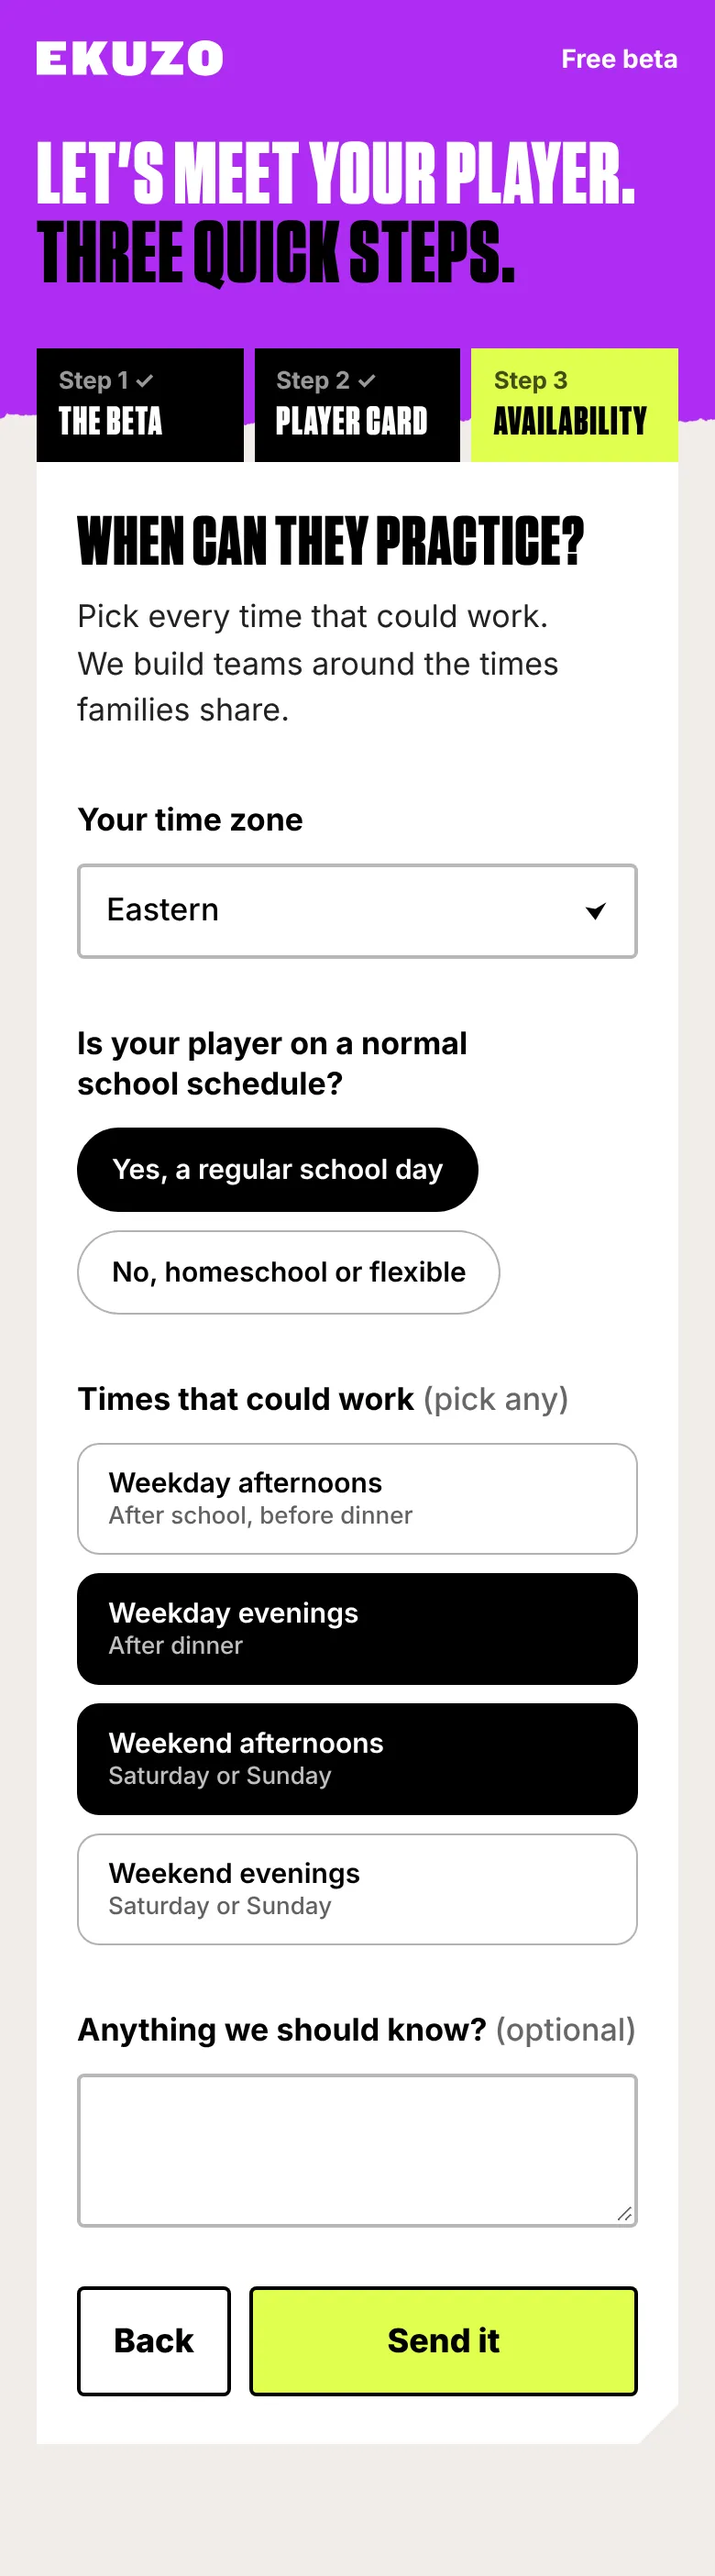
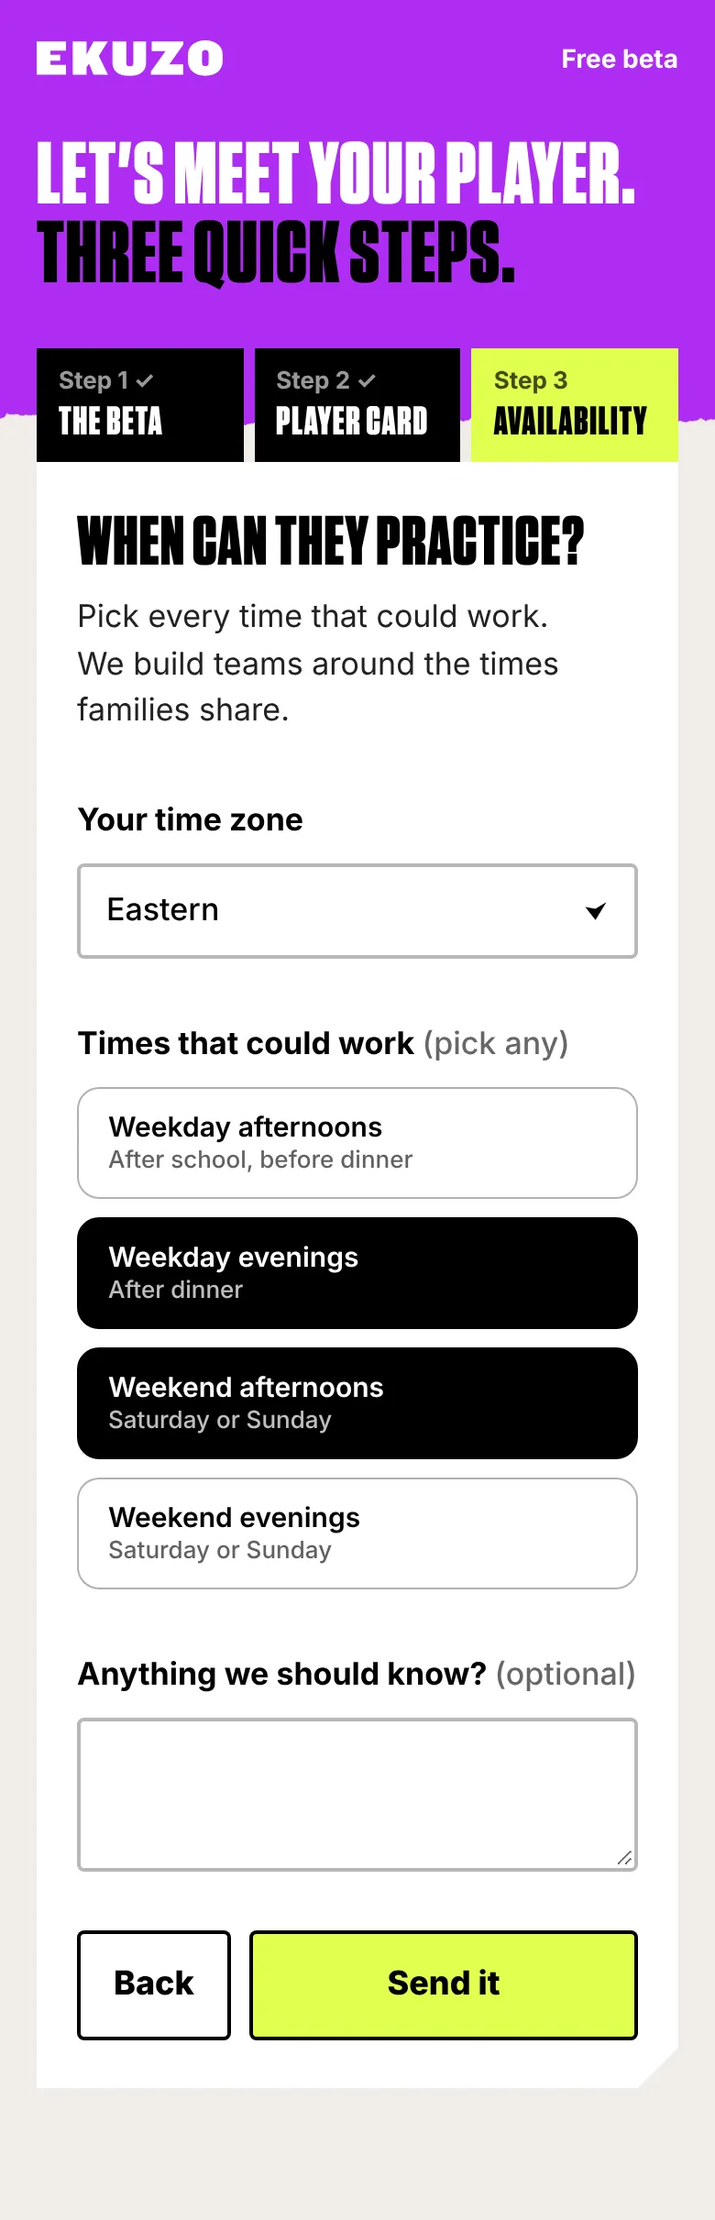
BETA wizard: age dropdown (9 to 18), school schedule question removed
Claude-Session: https://claude.ai/code/session_01543UG8e9JwTD5Qg5aKwmc9

Changed region(s): [[0.0, 0.0, 1.0, 0.8051], [0.0923, 0.8361, 0.8923, 0.929], [0.8308, 0.3406, 0.8923, 0.4335]]

diff --git a/public/roadshow/beta/wizard.html b/public/roadshow/beta/wizard.html
@@ -95,7 +95,7 @@ main{position:relative;z-index:2;max-width:680px;margin:-56px auto 0;padding:0 2
 .q.bad .vows label:not(:has(input:checked)) .box{border-color:var(--bad)}
 .err{display:none;font:600 14px/1.35 var(--body);color:var(--bad);margin-top:8px}
 .q.bad .err{display:block}
-.q.bad input[type=text],.q.bad input[type=number],.q.bad input[type=email]{border-color:var(--bad)}
+.q.bad input[type=text],.q.bad select,.q.bad input[type=email]{border-color:var(--bad)}
 .q.bad .opts label{border-color:var(--bad)}
 
 .acts{display:flex;gap:10px;margin-top:28px}
@@ -172,7 +172,7 @@ main{position:relative;z-index:2;max-width:680px;margin:-56px auto 0;padding:0 2
 <div class="q" id="q-email" hidden><label for="email">Your email <i>(the one you joined with)</i></label><input id="email" name="email" type="email" autocomplete="email" inputmode="email" autocapitalize="off" spellcheck="false"><p class="err">Enter the email you joined with.</p></div>
 <div class="row">
 <div class="q"><label for="pname">Player's first name</label><input id="pname" name="pname" type="text" autocomplete="off" autocapitalize="words" required><p class="err">Add your player's first name.</p></div>
-<div class="q"><label for="age">Age</label><input id="age" name="age" type="number" inputmode="numeric" min="9" max="19" required><p class="err">Ages 9 and up.</p></div>
+<div class="q"><label for="age">Age</label><select id="age" name="age" required><option value="" selected disabled hidden></option><option>9</option><option>10</option><option>11</option><option>12</option><option>13</option><option>14</option><option>15</option><option>16</option><option>17</option><option>18</option></select><p class="err">Pick their age.</p></div>
 </div>
 <fieldset class="q"><legend>Where do they game? <i>(pick any)</i></legend>
 <div class="opts">
@@ -211,11 +211,6 @@ main{position:relative;z-index:2;max-width:680px;margin:-56px auto 0;padding:0 2
 <select id="tz" name="tz">
 <option value="Eastern">Eastern</option><option value="Central">Central</option><option value="Mountain">Mountain</option><option value="Pacific">Pacific</option><option value="Alaska">Alaska</option><option value="Hawaii">Hawaii</option><option value="Other">Outside the US</option>
 </select></div>
-<fieldset class="q" id="q-school"><legend>Is your player on a normal school schedule?</legend>
-<div class="opts">
-<label><input type="radio" name="school" value="Yes" required>Yes, a regular school day</label>
-<label><input type="radio" name="school" value="Flexible">No, homeschool or flexible</label>
-</div><p class="err">Pick one so we know which hours are open.</p></fieldset>
 <fieldset class="q" id="q-times"><legend>Times that could work <i>(pick any)</i></legend>
 <div class="opts col">
 <label><span><input type="checkbox" name="times" value="Weekday afternoons">Weekday afternoons<small>After school, before dinner</small></span></label>
@@ -263,10 +258,9 @@ main{position:relative;z-index:2;max-width:680px;margin:-56px auto 0;padding:0 2
     if(i===1){
       var qe=document.getElementById("q-email"); if(!qe.hidden) mark(qe,!/^[^\s@]+@[^\s@]+\.[^\s@]{2,}$/.test(f.email.value.trim()));
       mark(f.pname.closest(".q"),!f.pname.value.trim());
-      var a=parseInt(f.age.value,10); mark(f.age.closest(".q"),!(a>=9&&a<=19));
+      mark(f.age.closest(".q"),!f.age.value);
     }
     if(i===2){
-      mark(document.getElementById("q-school"),!f.school.value);
       mark(document.getElementById("q-times"),!f.querySelector("[name=times]:checked"));
     }
     if(first){ var t=first.querySelector("input,select"); if(t) t.focus(); first.scrollIntoView({block:"center"}); }

diff --git a/public/roadshow/beta-lab.html b/public/roadshow/beta-lab.html
@@ -154,7 +154,7 @@ footer{color:var(--muted);font-size:14px;border-top:1px solid var(--line);paddin
     <div class="screens wiz">
       <figure><img src="beta/screens/wizard-1-beta.webp" alt="Wizard step 1: here's what the beta is, and what the player needs." width="390" height="878" loading="lazy"><figcaption><b>1. The beta</b>Two weeks, four sessions. Any laptop or Mac, a headset or headphones, a mouse. Then three expectations to tap: no toxicity, positive mindset, winning attitude.</figcaption></figure>
       <figure><img src="beta/screens/wizard-2-player.webp" alt="Wizard step 2: build their player card." width="390" height="1157" loading="lazy"><figcaption><b>2. Player card</b>Name, age, where they game, how team sports have gone, their superpower and a fun fact. The card fills in as they answer.</figcaption></figure>
-      <figure><img src="beta/screens/wizard-3-availability.webp" alt="Wizard step 3: time zone, school schedule and the times that could work." width="390" height="1323" loading="lazy"><figcaption><b>3. Availability</b>Time zone (filled in from their device), normal school schedule or not, then weekday or weekend, afternoons or evenings.</figcaption></figure>
+      <figure><img src="beta/screens/wizard-3-availability.webp" alt="Wizard step 3: time zone, school schedule and the times that could work." width="390" height="1323" loading="lazy"><figcaption><b>3. Availability</b>Time zone (filled in from their device), then weekday or weekend, afternoons or evenings.</figcaption></figure>
       <figure><img src="beta/screens/wizard-4-done.webp" alt="Wizard end: Got it. We'll review your times and follow up with practice details." width="390" height="889" loading="lazy"><figcaption><b>After the last step</b>"We'll review and email you either way", so nobody reads it as a guaranteed spot. Then a reaction test for the player.</figcaption></figure>
     </div>
     <a class="more" href="beta/wizard.html">Try the wizard</a>

diff --git a/WORKLOG.md b/WORKLOG.md
@@ -10,6 +10,7 @@
   - Step 1 now says "Any laptop or Mac will work. League of Legends is free." and adds "What we expect from every player": No toxicity, Positive mindset, Winning attitude (show up, be kind, try your best). Each is a tap-to-agree checkbox whose mark draws itself; all three are needed to continue.
   - Step 2 (player card): choices are pills and the questions have more room between them.
   - Time zone is prefilled from the device's own time zone setting (no IP lookup, nothing sent anywhere). The parent can change it.
+  - Later (Aaron): age is a dropdown, 9 to 18. The school schedule question is removed from step 3. First needs bullet reads "Any laptop or Mac will work". Expectation checkboxes sit straight.
 - `app/season1/beta/beta.html`: the "What do they need?" answer now matches ("Any laptop or Mac will work, and League of Legends is free").
 - Beta lab wizard screens retaken. Checked at 390 and 1440.
 
